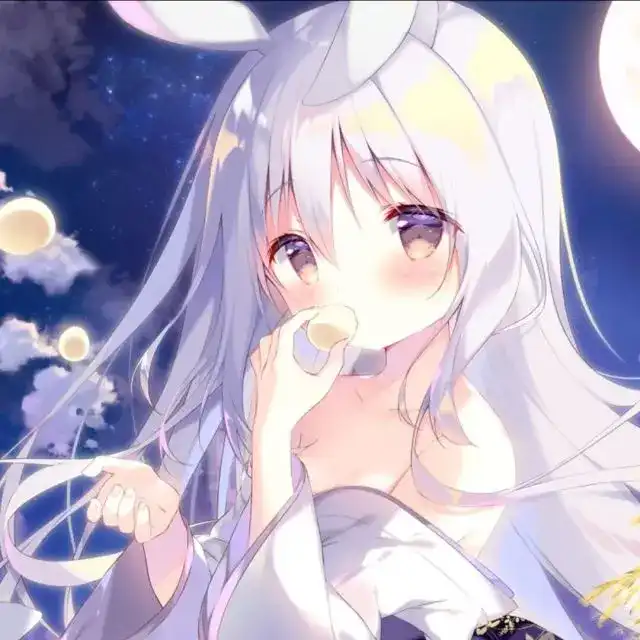
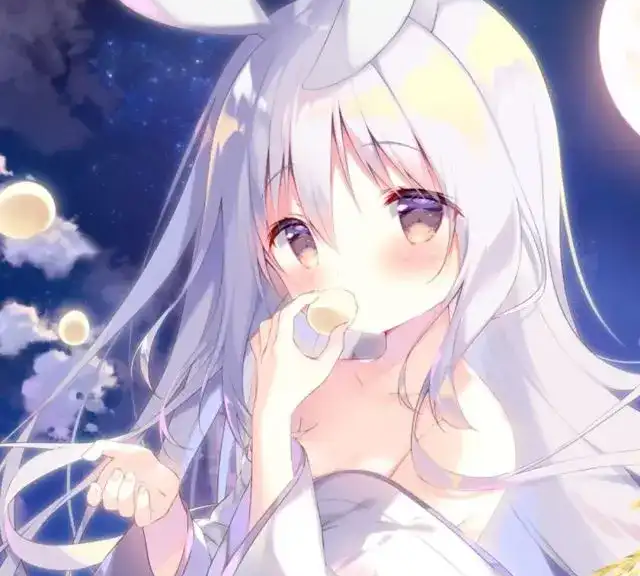
🐞 fix: image style

diff --git a/src/views/Home/Components/HomeCarousel.vue b/src/views/Home/Components/HomeCarousel.vue
@@ -16,7 +16,7 @@ const carouselItems = [
   },
   {
     id: 4,
-    url: 'src/images/Carouse/4.jpg',
+    url: 'src/images/Carouse/4.webp',
   }
 ]
 </script>
